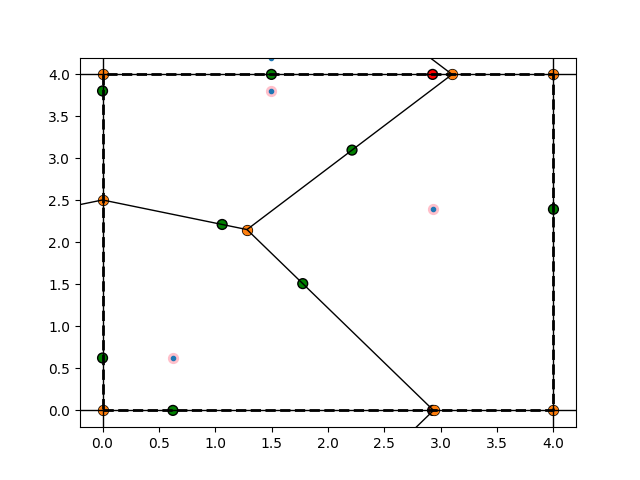
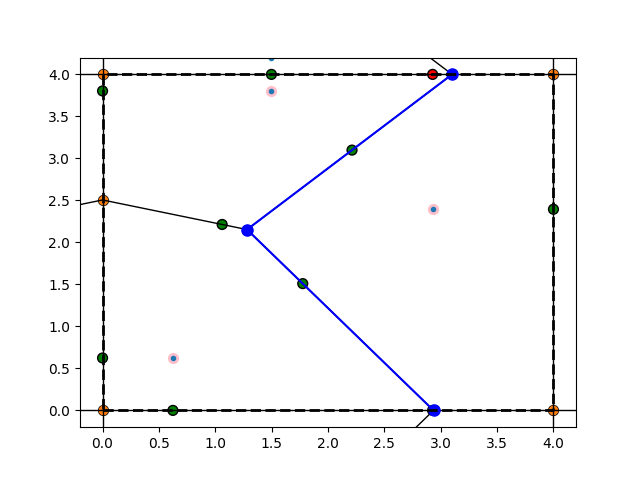
I think it works

diff --git a/voronoi/main.py b/voronoi/main.py
@@ -118,7 +118,6 @@ def main():
         if vor.vertices[i, 0] >= -eps and vor.vertices[i, 0] <= x_length+eps and vor.vertices[i, 1] >= -eps and vor.vertices[i, 1] <= y_length+eps:
             keep_nodes.append(i)
     
-    
     vor_nodes = np.copy(vor.vertices[keep_nodes])
     
     keep_edges = []
@@ -160,11 +159,36 @@ def main():
     # Next step: store everything into a weightes CSR graph file
     
     # First, make a mapping of the vor.vertices to arange as CSR starts from 0, n_points -1.
-    all_idx = np.unique(middle_points[:,0:2])
+    all_idx = np.unique(middle_points[:,0:2]).astype(int)
     
-    # TODO: define the end and starting point by shuffeling the all_idx! (amazing)
-    # choose the one closest to the random sampled once
+    # We define the end and starting point by shuffeling the all_idx! (amazing)
+    # We choose the points which are the closest to the ridge point as the starting and end point
+    # The starting point will start on a point on the lower boundary
+    # and the end point on a point on the upper boundary
+    closest_to_start = (-1, x_length)
+    closest_to_end = (-1, x_length)
+    for idx in all_idx:
+        vor_vertex = vor.vertices[idx]
+        if vor_vertex[1] == 0.:
+            dist = abs(vor_vertex[0] - start_coord)
+            
+            if dist < closest_to_start[1]:
+                closest_to_start = (idx, dist)
+                
+        elif vor_vertex[1] == y_length:
+            dist = abs(vor_vertex[0] - end_coord)
+            
+            if dist < closest_to_end[1]:
+                closest_to_end = (idx, dist)
+                
+    assert closest_to_start[0] != -1, "didn't find a closest point on the lower boundary"
+    assert closest_to_end[0] != -1, "didn't find a closest point on the upper boundary"   
     
+    start_idx = np.where(all_idx == closest_to_start[0])[0][0]
+    end_idx = np.where(all_idx == closest_to_end[0])[0][0]  
+                
+    all_idx[0], all_idx[start_idx] = all_idx[start_idx], all_idx[0]
+    all_idx[-1], all_idx[end_idx] = all_idx[end_idx], all_idx[-1]
     
     n_nodes = len(all_idx)
     graph = np.zeros((n_nodes, n_nodes))
@@ -173,16 +197,35 @@ def main():
         j = np.where(all_idx == middle_point[1])[0][0]
         cost = middle_point[2]
         graph[i,j] = cost
-        
-    print(graph)
     
     graph = csr_matrix(graph)
     
+    #### Step 4: Compute the shortest path
+    dist_matrix, predecessors = shortest_path(csgraph=graph, method='auto', directed=False, indices=0, return_predecessors=True)
     
+    # Backtrack to find the shortest path from source to destination
+    path = []
+    step = -1
+    while step != 0:
+        path.append(step)
+        step = predecessors[step]
+
+    path.append(0)
+    path = path[::-1]  # Reverse the path to get it from source to destination
+    
+    #### Step 5: Plot
+    
+    # plot voronoi
     fig = voronoi_plot_2d(vor)
-    margin = max(x_length, y_length)/20.0
-    plt.xlim(-margin, x_length + margin)
-    plt.ylim(-margin, y_length + margin)
+    
+    # Plot the shortest path
+    print(path)
+    print(all_idx[path])
+    
+    x_coords = vor.vertices[all_idx[path], 0]
+    y_coords = vor.vertices[all_idx[path], 1]
+    print(x_coords)
+    plt.plot(x_coords, y_coords, marker='o', linestyle='-', color='blue', markersize=8)
     
     colors = ['green' if (0.0 < t < 1.0) else 'red' for t in middle_points[:,3]]
     
@@ -196,6 +239,10 @@ def main():
     plt.plot([0, x_length, x_length, 0, 0],
             [0, 0, y_length, y_length, 0],
             'k--', lw=2)
+    
+    margin = max(x_length, y_length)/20.0
+    plt.xlim(-margin, x_length + margin)
+    plt.ylim(-margin, y_length + margin)
 
     plt.savefig('heatmap2.png')
     plt.show()

diff --git a/discrete/main.py b/discrete/main.py
@@ -203,13 +203,11 @@ def main():
     path.append(start_coord)
     path = path[::-1]  # Reverse the path to get it from source to destination
     
-    x_coords = grid_points[path, 0]
-    y_coords = grid_points[path, 1]
-    
-    
     #### Step 5: Plot
     
     # Plot the shortest path
+    x_coords = grid_points[path, 0]
+    y_coords = grid_points[path, 1]
     plt.plot(x_coords, y_coords, marker='o', linestyle='-', color='blue', markersize=8)
     
     # Plot the start and end points
